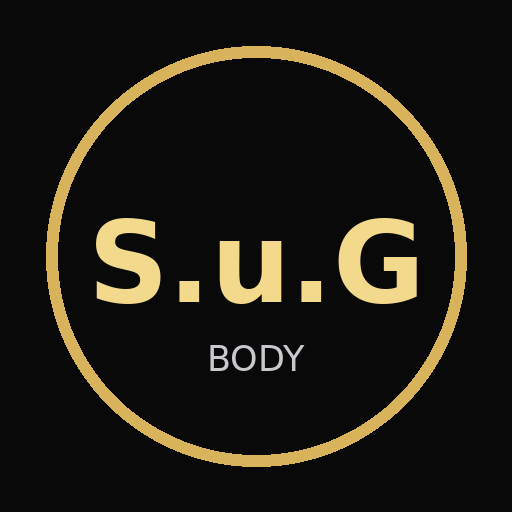
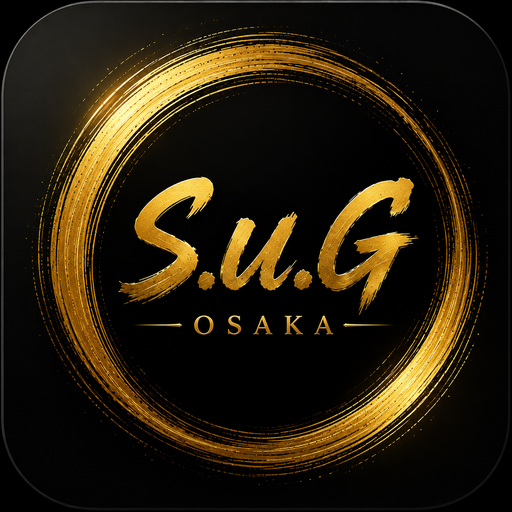
Add files via upload

diff --git a/index.html b/index.html
@@ -6,15 +6,15 @@
 <meta http-equiv="Cache-Control" content="no-cache, no-store, must-revalidate">
 <meta http-equiv="Pragma" content="no-cache">
 <meta http-equiv="Expires" content="0">
-<title>S.u.G BODY MANAGEMENT SYSTEM V24</title>
+<title>S.u.G BODY MANAGEMENT SYSTEM V24.1 DESIGN EDITION</title>
 <meta name="theme-color" content="#09090a">
 <meta name="mobile-web-app-capable" content="yes">
 <meta name="apple-mobile-web-app-capable" content="yes">
 <meta name="apple-mobile-web-app-status-bar-style" content="black-translucent">
 <meta name="apple-mobile-web-app-title" content="S.u.G BODY">
-<link rel="manifest" href="./manifest.webmanifest?v=24">
-<link rel="apple-touch-icon" sizes="180x180" href="./icon-180.png?v=24">
-<link rel="icon" type="image/png" sizes="192x192" href="./icon-192.png?v=24">
+<link rel="manifest" href="./manifest.webmanifest?v=24-1-design">
+<link rel="apple-touch-icon" sizes="180x180" href="./icon-180.png?v=24-1-design">
+<link rel="icon" type="image/png" sizes="192x192" href="./icon-192.png?v=24-1-design">
 <style>
 :root{
   --bg:#09090a;--card:#141417;--card2:#1a1a1f;--gold:#d8b35b;--gold2:#f3d98b;
@@ -172,7 +172,7 @@ hr{border:0;border-top:1px solid #29292f;margin:11px 0}.muted{color:#999;font-si
 .checkinFollowReason{font-size:9px;color:#c7c7cc;line-height:1.55;margin-top:3px}
 @media(max-width:719px){.checkinFollowItem{grid-template-columns:auto 1fr}.checkinFollowItem .lineBtn,.checkinFollowItem .secondary,.checkinFollowItem .primary{width:100%}}
 
-/* V24 FINAL: production release 1.0 */
+/* V24.1 DESIGN EDITION: production 1.0 visual branding */
 .dailyOpsCard{border-color:#66552b;background:linear-gradient(180deg,#1b170d,#101012)}
 .dailyOpsKpis{display:grid;grid-template-columns:repeat(6,1fr);gap:7px;margin-top:10px}
 .dailyOpsKpi{background:#0d0d10;border:1px solid #373126;border-radius:11px;padding:9px;min-width:0}
@@ -192,6 +192,54 @@ hr{border:0;border-top:1px solid #29292f;margin:11px 0}.muted{color:#999;font-si
 .pwaGuide.hidden{display:none}
 @media (display-mode: standalone){.pwaGuide{display:none!important}}
 
+
+/* V24.1 DESIGN EDITION — S.u.G branded visual layer */
+:root{--sugGlow:rgba(216,179,91,.18);--sugGlow2:rgba(243,217,139,.08)}
+body{
+  background:
+    radial-gradient(circle at 50% -10%,rgba(216,179,91,.10),transparent 34%),
+    linear-gradient(180deg,#050506,#0c0c0f 48%,#070708);
+}
+header{border-bottom-color:#3c3422;box-shadow:0 10px 32px rgba(0,0,0,.30)}
+.brandIdentity{display:flex;align-items:center;gap:10px;min-width:0}
+.brandHeaderLogo{width:180px;max-width:42vw;height:auto;display:block;filter:drop-shadow(0 5px 14px rgba(216,179,91,.10))}
+.brandCopy{min-width:0}.brandCopy h1{margin:0;font-size:12px;letter-spacing:.10em}.brandCopy small{display:block;margin-top:2px;color:var(--gold2);font-size:8px}
+.authBox{position:relative;overflow:hidden;padding-top:18px;border-color:#67552b;box-shadow:0 24px 90px rgba(0,0,0,.58),0 0 46px rgba(216,179,91,.06)}
+.authBrandLogo{display:block;width:min(330px,92%);height:auto;margin:0 auto 10px;filter:drop-shadow(0 8px 18px rgba(216,179,91,.12))}
+.authBox h1{font-size:16px;text-align:center}.authBox .sub{text-align:center;letter-spacing:.08em}
+.authMascot{display:block;width:118px;height:auto;margin:8px auto -2px;filter:drop-shadow(0 8px 15px rgba(0,0,0,.38))}
+.card{position:relative;overflow:hidden}
+.card::after{content:"";position:absolute;inset:auto -20% -45% 35%;height:150px;background:radial-gradient(circle,rgba(216,179,91,.045),transparent 68%);pointer-events:none}
+.sugHero{display:grid;grid-template-columns:minmax(0,1fr) 138px;gap:12px;align-items:center;border-color:#5f4e28;background:linear-gradient(145deg,#1a160d,#111114 58%,#09090b)}
+.sugHeroLogo{width:100%;max-width:350px;height:auto;display:block;filter:drop-shadow(0 10px 24px rgba(216,179,91,.10))}
+.sugHeroMascot{width:138px;max-width:100%;height:auto;justify-self:end;filter:drop-shadow(0 10px 22px rgba(0,0,0,.42))}
+.sugHeroTitle{font-size:17px;font-weight:900;color:var(--gold2);letter-spacing:.06em;margin-top:4px}
+.sugHeroSub{font-size:9px;color:#b9ad87;line-height:1.7;margin-top:5px}
+.adminBrandHero{display:grid;grid-template-columns:190px minmax(0,1fr);gap:14px;align-items:center;border-color:#604d26;background:linear-gradient(140deg,#15120c,#0d0d10)}
+.adminOfficialLogo{width:190px;max-width:100%;height:auto;border-radius:14px;border:1px solid #4b4028;box-shadow:0 12px 32px rgba(0,0,0,.35)}
+.adminBrandText h2{font-size:18px;margin:0;color:var(--gold2);letter-spacing:.06em}.adminBrandText p{font-size:9px;color:#aaa;line-height:1.7;margin:6px 0 0}
+.sectionLead{display:grid;grid-template-columns:minmax(0,1fr) 105px;gap:10px;align-items:center}
+.sectionMascot{width:105px;height:auto;justify-self:end;filter:drop-shadow(0 8px 16px rgba(0,0,0,.35))}
+.sectionLead h2{font-size:15px!important;margin-bottom:5px!important}.sectionLead .muted{line-height:1.6}
+.mascotMini{width:86px;height:auto;float:right;margin:-8px -5px 4px 8px;filter:drop-shadow(0 7px 14px rgba(0,0,0,.35))}
+.tabs{position:sticky;top:65px;z-index:30;background:rgba(8,8,10,.90);padding:6px;border-radius:12px;backdrop-filter:blur(12px);border:1px solid rgba(216,179,91,.10)}
+.tab{transition:.18s ease}.tab.active{box-shadow:inset 0 0 0 1px rgba(243,217,139,.12),0 5px 20px rgba(216,179,91,.05)}
+button.primary{box-shadow:0 5px 18px rgba(184,140,50,.10)}
+@media(max-width:700px){
+  .brandHeaderLogo{width:145px;max-width:46vw}.brandCopy h1{font-size:9px}.brandCopy small{font-size:7px}
+  .headActions{gap:4px}.headActions button{padding:8px 9px;font-size:9px}
+  .sugHero{grid-template-columns:minmax(0,1fr) 102px}.sugHeroMascot{width:102px}
+  .adminBrandHero{grid-template-columns:110px minmax(0,1fr)}.adminOfficialLogo{width:110px}.adminBrandText h2{font-size:14px}
+  .sectionLead{grid-template-columns:minmax(0,1fr) 82px}.sectionMascot{width:82px}
+}
+@media(max-width:430px){
+  .brandCopy{display:none}.brandHeaderLogo{width:178px;max-width:54vw}
+  .sugHero{grid-template-columns:minmax(0,1fr) 90px}.sugHeroMascot{width:90px}.sugHeroTitle{font-size:14px}
+  .adminBrandHero{grid-template-columns:88px minmax(0,1fr)}.adminOfficialLogo{width:88px}
+  .sectionLead{grid-template-columns:minmax(0,1fr) 72px}.sectionMascot{width:72px}
+  .tabs{top:62px}
+}
+
 </style>
 <script>
 window.SUG_CLOUD_CONFIG = {
@@ -205,8 +253,9 @@ window.SUG_CLOUD_CONFIG = {
 
 <div id="authGate" class="authGate">
   <div class="authBox">
+    <img class="authBrandLogo" src="./brand-header.png?v=24-1-design" alt="S.u.G OSAKA">
     <h1>S.u.G BODY MANAGEMENT SYSTEM</h1>
-    <div class="sub">V24 FINAL / MEMBERS ONLY</div>
+    <div class="sub">V24.1 DESIGN EDITION / MEMBERS ONLY</div>
     <label>メールアドレス</label>
     <input id="loginEmail" type="email" autocomplete="email" placeholder="member@example.com">
     <label style="margin-top:10px">パスワード</label>
@@ -215,6 +264,7 @@ window.SUG_CLOUD_CONFIG = {
     <div class="authLinks"><button class="linkBtn" type="button" onclick="requestPasswordReset()">パスワードを忘れた方</button></div>
     <div id="authError" class="authError"></div>
     <div class="setupNote">S.u.G会員限定。アカウントは管理者が発行します。</div>
+    <img class="authMascot" src="./mascot-highfive.png?v=24-1-design" alt="">
     <div id="pwaGuide" class="pwaGuide hidden"><b>iPhoneホーム画面対応</b><br>Safariの共有ボタン →「ホーム画面に追加」で、アプリのように起動できます。</div>
   </div>
 </div>
@@ -296,7 +346,10 @@ window.SUG_CLOUD_CONFIG = {
 
 <header>
   <div class="head">
-    <div class="brand"><h1>S.u.G BODY MANAGEMENT SYSTEM</h1><small>V24 FINAL / S.u.G BODY MANAGEMENT 1.0</small></div>
+    <div class="brandIdentity">
+      <img class="brandHeaderLogo" src="./brand-header.png?v=24-1-design" alt="S.u.G OSAKA">
+      <div class="brandCopy"><h1>S.u.G BODY MANAGEMENT SYSTEM</h1><small>V24.1 DESIGN EDITION / MANAGEMENT 1.0</small></div>
+    </div>
     <div class="headActions"><span id="cloudStatus" class="cloudStatus">Cloud</span><button id="exportAllBtn" class="secondary" onclick="backupAll()">全体バックアップ</button><button id="logoutBtn" class="secondary" onclick="logout()" style="display:none">ログアウト</button></div>
   </div>
 </header>
@@ -322,6 +375,10 @@ window.SUG_CLOUD_CONFIG = {
   </div>
 
   <section id="adminBoard" class="panel">
+    <div id="adminBrandHero" class="card adminBrandHero">
+      <img class="adminOfficialLogo" src="./brand-official.jpg?v=24-1-design" alt="S.u.G OSAKA official brand">
+      <div class="adminBrandText"><h2>S.u.G OSAKA</h2><p>PERSONAL TRAINING × PERSONAL STRETCH × CONDITIONING<br>会員管理・予約・フォロー・コンディションを一つの運営画面へ。</p></div>
+    </div>
     <div class="card dailyOpsCard">
       <div class="row" style="align-items:center">
         <div><h2 style="margin-bottom:3px">今日の運営</h2><div class="muted">予約・フォロー・チェックイン・回復低下を、今日やる順に1画面で確認</div></div>
@@ -442,6 +499,14 @@ window.SUG_CLOUD_CONFIG = {
   </section>
 
   <section id="dash" class="panel active">
+    <div class="card sugHero">
+      <div>
+        <img class="sugHeroLogo" src="./brand-header.png?v=24-1-design" alt="S.u.G OSAKA">
+        <div class="sugHeroTitle">鍛える。整える。魅せる。</div>
+        <div class="sugHeroSub">TRAINING / CONDITIONING / STYLE UPDATE<br>記録して、管理して、次の身体へ。</div>
+      </div>
+      <img class="sugHeroMascot" src="./mascot-highfive.png?v=24-1-design" alt="">
+    </div>
     <div class="card">
       <h2>現在の状態</h2>
       <div class="kpis">
@@ -484,6 +549,7 @@ window.SUG_CLOUD_CONFIG = {
 
   <section id="weight" class="panel">
     <div class="card">
+      <img class="mascotMini" src="./mascot-jumprope.png?v=24-1-design" alt="">
       <h2>体重記録</h2>
       <div class="grid2"><div><label>日付</label><input id="wDate" type="date"></div><div><label>体重 kg</label><input id="wWeight" type="number" step="0.1"></div></div>
       <div class="grid2" style="margin-top:8px"><div><label>体脂肪率 %</label><input id="wFat" type="number" step="0.1"></div><div><label>メモ</label><input id="wMemo"></div></div>
@@ -505,7 +571,7 @@ window.SUG_CLOUD_CONFIG = {
 
   <section id="training" class="panel">
     <div class="card">
-      <h2>トレーニング記録</h2>
+      <div class="sectionLead"><div><h2>トレーニング記録</h2><div class="muted">重量・REP・SET・RIRを記録し、前回からの進歩を確認。</div></div><img class="sectionMascot" src="./mascot-basketball.png?v=24-1-design" alt=""></div>
       <div class="grid2"><div><label>日付</label><input id="tDate" type="date"></div><div><label>種目</label><input id="tExercise" placeholder="スミススクワット"></div></div>
       <div class="grid4" style="margin-top:8px"><div><label>重量</label><input id="tWeight" type="number" step="0.5"></div><div><label>REP</label><input id="tReps" type="number"></div><div><label>SET</label><input id="tSets" type="number"></div><div><label>RIR</label><input id="tRir" type="number" step="0.5"></div></div>
       <div style="margin-top:8px"><label>メモ</label><input id="tMemo"></div>
@@ -517,7 +583,7 @@ window.SUG_CLOUD_CONFIG = {
 
   <section id="recovery" class="panel">
     <div class="card">
-      <h2>回復・コンディション</h2>
+      <div class="sectionLead"><div><h2>回復・コンディション</h2><div class="muted">睡眠・疲労・ストレス・痛みから、その日の負荷を調整。</div></div><img class="sectionMascot" src="./mascot-stretch.png?v=24-1-design" alt=""></div>
       <div class="grid2"><div><label>日付</label><input id="rDate" type="date"></div><div><label>睡眠時間</label><input id="rSleep" type="number" step="0.1"></div></div>
       <div class="grid3" style="margin-top:8px"><div><label>疲労 1-10</label><input id="rFatigue" type="number" min="1" max="10"></div><div><label>ストレス 1-10</label><input id="rStress" type="number" min="1" max="10"></div><div><label>痛み 0-10</label><input id="rPain" type="number" min="0" max="10"></div></div>
       <div style="margin-top:8px"><label>メモ</label><textarea id="rMemo"></textarea></div>
@@ -529,7 +595,7 @@ window.SUG_CLOUD_CONFIG = {
 
   <section id="checkin" class="panel">
     <div class="card">
-      <h2>週間チェックイン</h2>
+      <div class="sectionLead"><div><h2>週間チェックイン</h2><div class="muted">今週の身体と生活を短時間で共有。コーチングの調整材料にします。</div></div><img class="sectionMascot" src="./mascot-running.png?v=24-1-design" alt=""></div>
       <div class="notice">週1回の自己申告です。数値は管理の目安として使い、体調の診断には使用しません。</div>
       <div class="grid2" style="margin-top:9px"><div><label>日付</label><input id="ciDate" type="date"></div><div><label>体調 1-5</label><input id="ciCondition" type="number" min="1" max="5" value="3"></div></div>
       <div class="grid2" style="margin-top:8px"><div><label>睡眠満足度 1-5</label><input id="ciSleep" type="number" min="1" max="5" value="3"></div><div><label>痛み 0-10</label><input id="ciPain" type="number" min="0" max="10" value="0"></div></div>
@@ -583,7 +649,7 @@ window.SUG_CLOUD_CONFIG = {
 
   <section id="profile" class="panel">
     <div class="card">
-      <h2>会員情報</h2>
+      <div class="sectionLead"><div><h2>会員情報</h2><div class="muted">目標・栄養・注意事項をS.u.Gの管理基準として保存。</div></div><img class="sectionMascot" src="./mascot-basic.png?v=24-1-design" alt=""></div>
       <div class="grid2"><div><label>氏名</label><input id="pfName"></div><div><label>目的</label><select id="pfGoal"><option>筋肥大</option><option>減量</option><option>増量</option><option>健康維持</option><option>姿勢改善</option></select></div></div>
       <div class="grid2" style="margin-top:8px"><div><label>目標体重</label><input id="pfTargetWeight" type="number" step="0.1"></div><div><label>目標kcal</label><input id="pfTargetKcal" type="number"></div></div>
       <div class="grid3" style="margin-top:8px"><div><label>目標P</label><input id="pfP" type="number"></div><div><label>目標F</label><input id="pfF" type="number"></div><div><label>目標C</label><input id="pfC" type="number"></div></div>
@@ -1782,6 +1848,7 @@ function applyRoleUI(){
   const adminTab=document.getElementById("adminTab");
   const coachEditor=document.getElementById("coachPlanEditorCard");
   const appointmentAdminCard=document.getElementById("appointmentAdminCard");
+  const adminBrandHero=document.getElementById("adminBrandHero");
   const selectedProfile=accessibleProfiles.find(x=>x.id===db.current);
   const canDelete=isTrainer && selectedProfile && selectedProfile.role!=="trainer" && db.current!==sessionUser?.id;
 
@@ -1793,6 +1860,7 @@ function applyRoleUI(){
   if(adminTab) adminTab.style.display=isTrainer?"block":"none";
   if(coachEditor) coachEditor.style.display=isTrainer?"block":"none";
   if(appointmentAdminCard) appointmentAdminCard.style.display=isTrainer?"block":"none";
+  if(adminBrandHero) adminBrandHero.style.display=isTrainer?"grid":"none";
   if(!isTrainer && document.getElementById("adminBoard")?.classList.contains("active")){
     const dashTab=document.querySelector('.tab[data-tab="dash"]');if(dashTab)dashTab.click();
   }
@@ -2383,7 +2451,7 @@ document.querySelectorAll(".tab").forEach(b=>b.onclick=()=>{document.querySelect
 if(document.getElementById("apptTime"))document.getElementById("apptTime").value="10:00";
 reportMonth.value=monthNow();
 
-// V24 FINAL PWA: network-only service worker to avoid stale app versions.
+// V24.1 DESIGN EDITION PWA: network-only service worker to avoid stale app versions.
 if ("serviceWorker" in navigator) {
   window.addEventListener("load", () => {
     navigator.serviceWorker.register("./sw.js?v=24").catch(err => console.warn("SW register failed", err));

diff --git a/sw.js b/sw.js
@@ -1,6 +1,4 @@
-const SW_VERSION = 'sug-v24-final-network-only';
+const SW_VERSION = 'sug-v24-1-design-network-only';
 self.addEventListener('install', () => self.skipWaiting());
 self.addEventListener('activate', event => event.waitUntil(self.clients.claim()));
-self.addEventListener('fetch', event => {
-  event.respondWith(fetch(event.request));
-});
+self.addEventListener('fetch', event => { event.respondWith(fetch(event.request)); });
